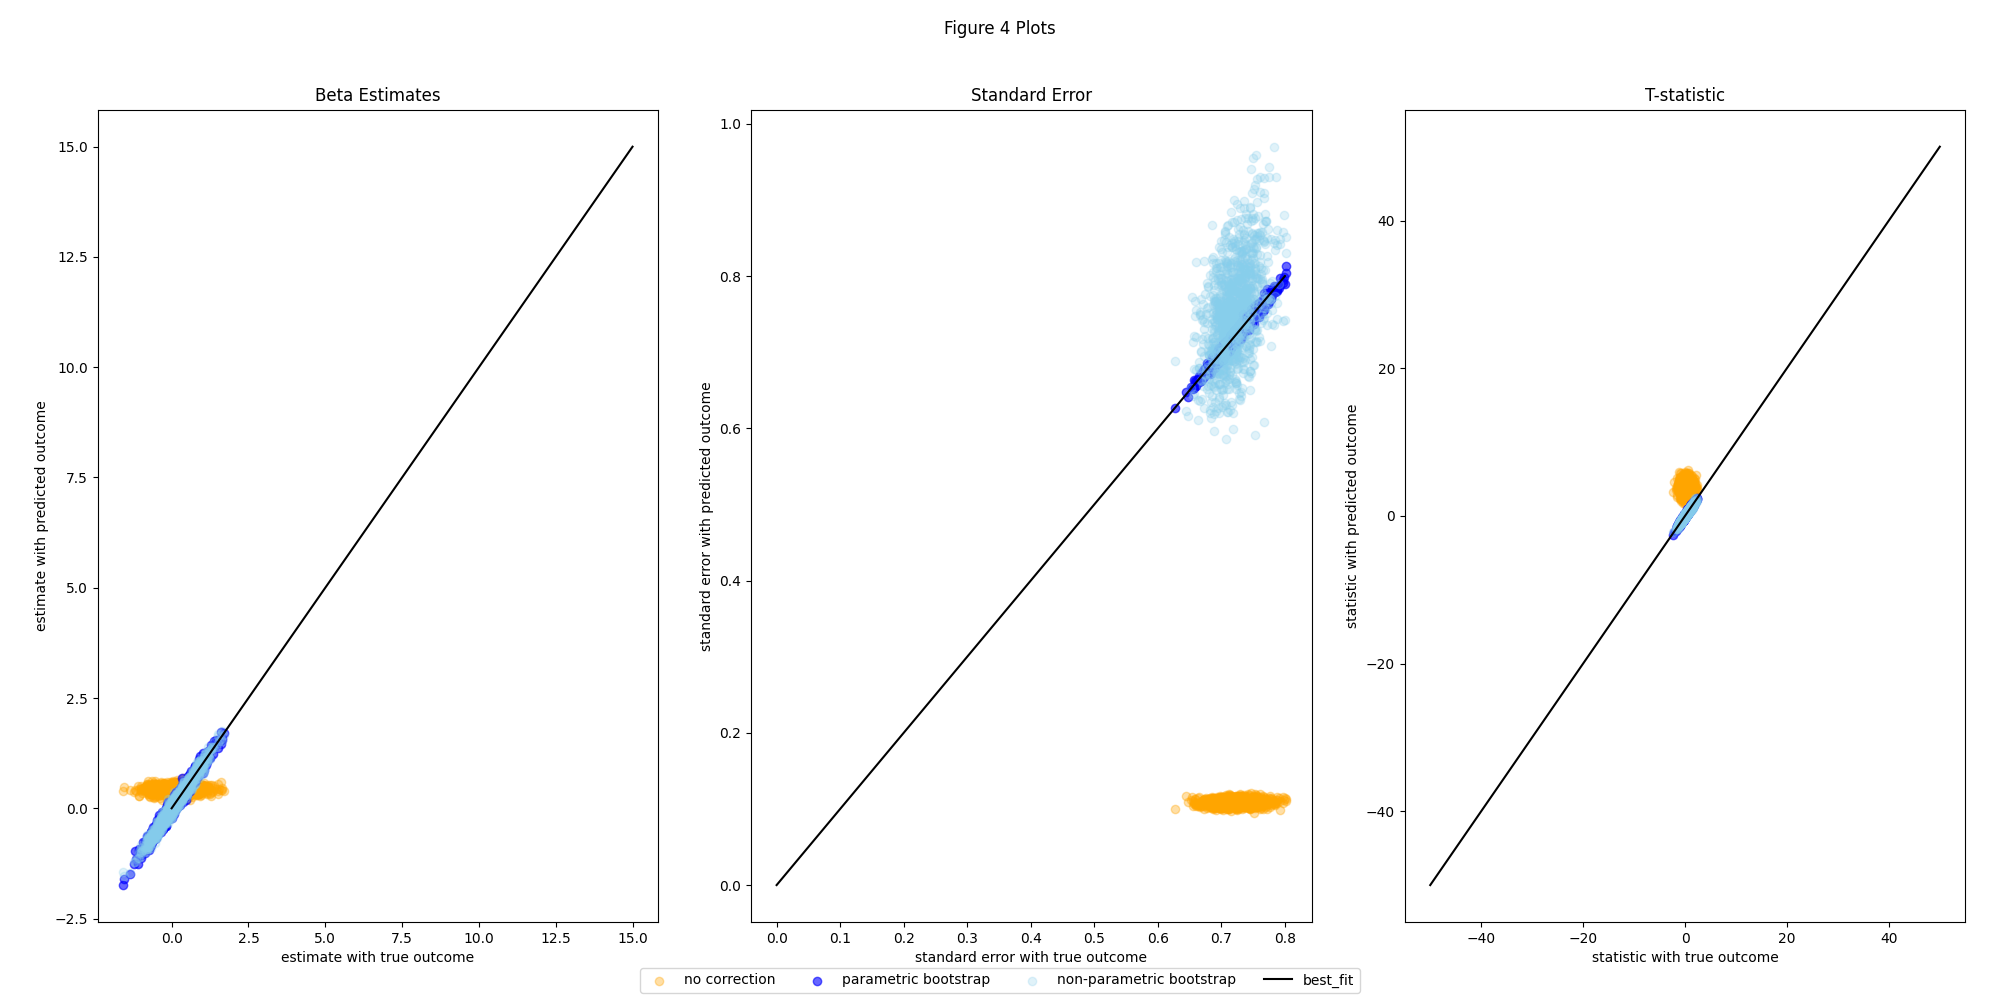
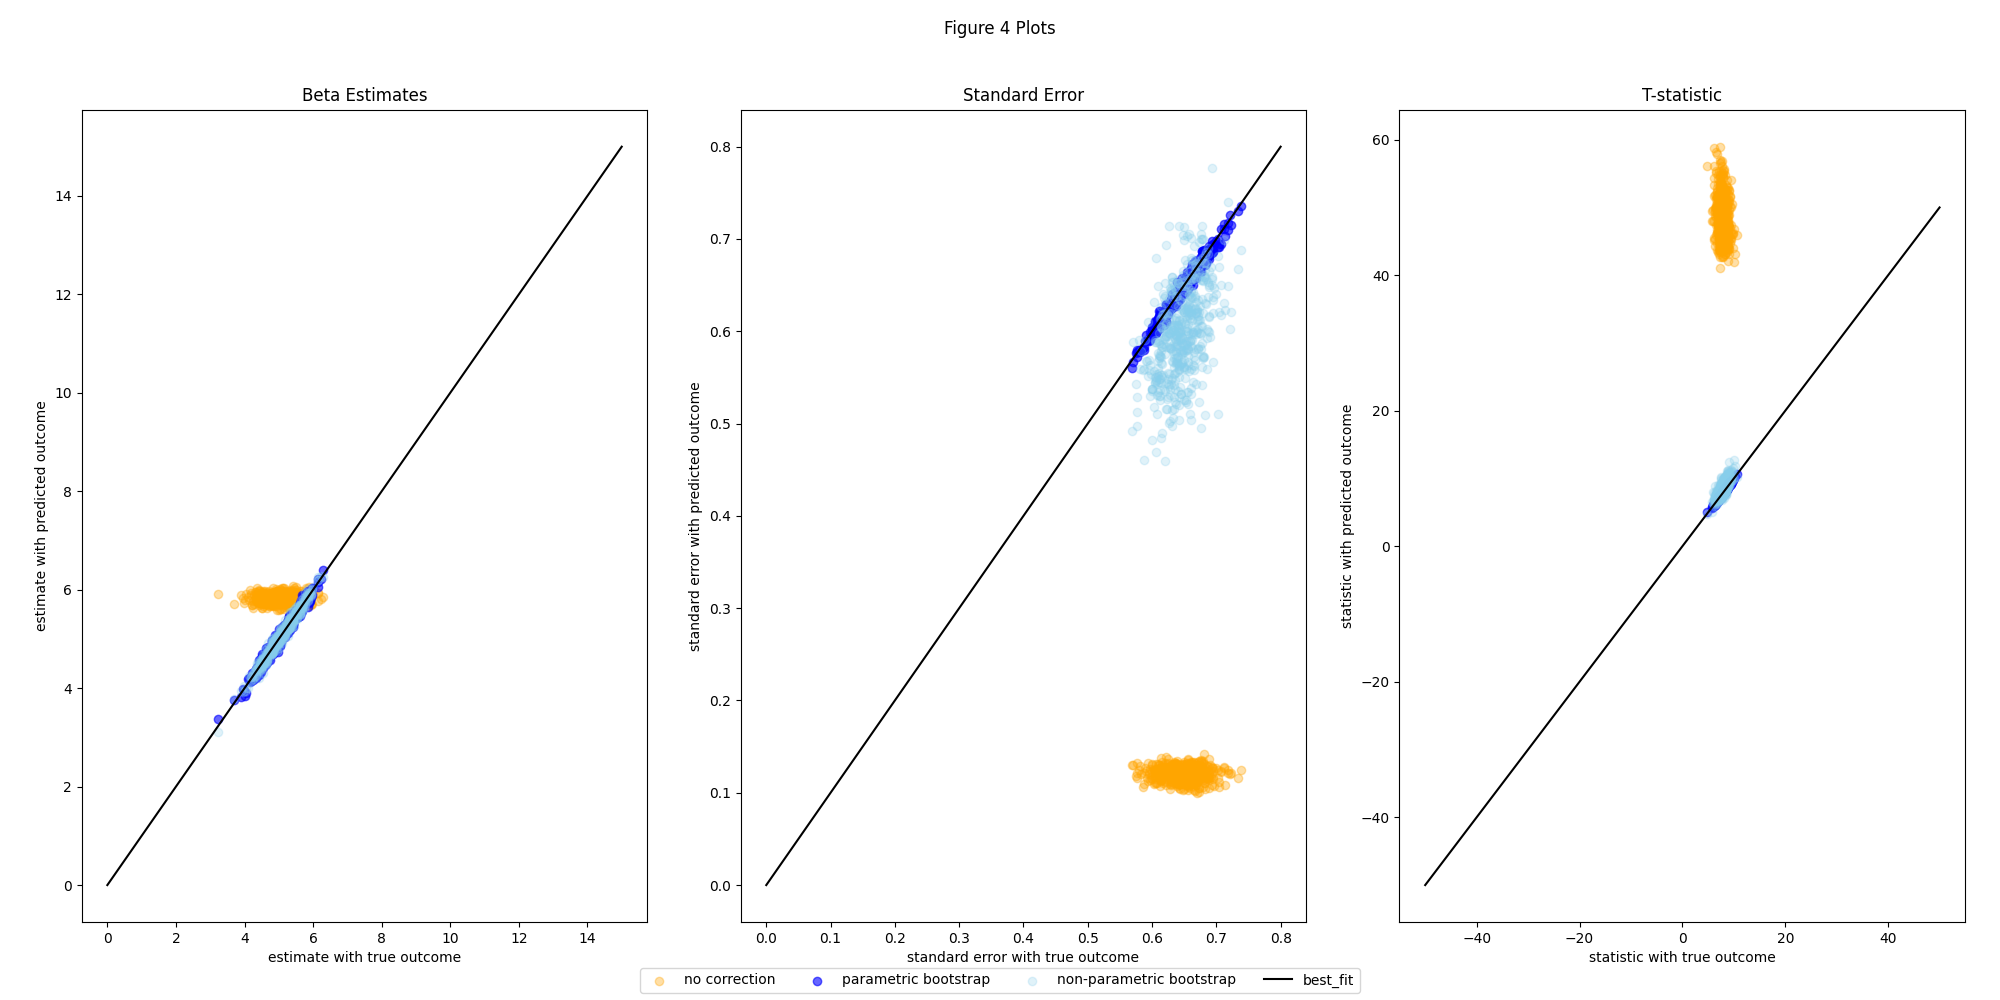
added p-value plots
need to understand how to interpret

diff --git a/src/postpi.py b/src/postpi.py
@@ -3,8 +3,9 @@ import matplotlib.pyplot as plt
 import statsmodels.api as sm
 import random
 import pandas as pd
-from sklearn.linear_model import LinearRegression
 
+from sklearn.linear_model import LinearRegression
+import scipy.stats
 
 def figure2_plot(qb_rating, y_test, y_pred):
     fig, axes = plt.subplots(1, 2)
@@ -42,7 +43,7 @@ def figure3_plot(y_pred, y_pred_baseline, y_test, y_test_baseline):
     axes[1].set(xlabel="y-observed baseline", ylabel="baseline y-predicted")
     axes[1].set_title("Linear Regression")
 
-    plt.savefig("src/plots/postpi_Fig3.png")
+    plt.savefig("./src/plots/postpi_Fig3.png")
     plt.clf()
 
 
@@ -88,6 +89,7 @@ def bootstrap_(x_val, y_val_pred, y_val_actual, relationship_model, param=True, 
 
     beta_estimators = []
     se_beta_estimators = []
+    pval_beta_estimators = []
     
     for b in range(B):
         # sample from the validation set with replacement
@@ -104,6 +106,7 @@ def bootstrap_(x_val, y_val_pred, y_val_actual, relationship_model, param=True, 
 
         beta_estimators.append(inf_model.params[1])
         se_beta_estimators.append(inf_model.bse[1])
+        pval_beta_estimators.append(inf_model.pvalues[1])
         
     beta_hat_boot = np.median(beta_estimators)
     se_hat_boot = None
@@ -112,7 +115,7 @@ def bootstrap_(x_val, y_val_pred, y_val_actual, relationship_model, param=True, 
     else:
         se_hat_boot = np.std(beta_estimators)
     
-    return beta_hat_boot, se_hat_boot
+    return beta_hat_boot, se_hat_boot, np.mean(pval_beta_estimators)
 
 
 def split_data(X_test, y_test):
@@ -127,17 +130,16 @@ def split_data(X_test, y_test):
 
 
 def postprediction_inference(X_test, y_test, prediction_model, y_test_baseline, y_pred_baseline):
-    all_true_outcomes, all_true_se, all_true_t_stats = [], [], []
-    all_parametric_estimates, all_parametric_se, all_parametric_t_stats = [], [], []
-    all_nonparametric_estimates, all_nonparametric_se, all_nonparametric_t_stats = [], [], []
-    all_nocorrection_estimates, all_nocorrection_se, all_nocorrection_t_stats = [], [], []
+    all_true_outcomes, all_true_se, all_true_t_stats, all_true_p_values = [], [], [], []
+    all_parametric_estimates, all_parametric_se, all_parametric_t_stats, all_parametric_p_values = [], [], [], []
+    all_nonparametric_estimates, all_nonparametric_se, all_nonparametric_t_stats, all_nonparametric_p_values = [], [], [], []
+    all_nocorrection_estimates, all_nocorrection_se, all_nocorrection_t_stats, all_nocorrection_p_values = [], [], [], []
 
-    var = {"QBRating": 1, "TOP": -2}
-    var = var["TOP"]
+    var = {"QBRating": 1, "TOP": -2, "RushTD": -3}
+    var = var["RushTD"]
 
-    for i in range(1000):
-        if i%100 == 0:
-            print("Working on Iteration: ", i)
+    for i in range(500):
+        print(f"Working on Iteration {i}", end="\r")
 
         test_set, valid_set = split_data(X_test, y_test)
         y_pred_nn = prediction_model.predict(test_set.iloc[:,:-1].values)
@@ -157,28 +159,50 @@ def postprediction_inference(X_test, y_test, prediction_model, y_test_baseline, 
         all_true_outcomes.append(true_inf_model.params[1])
         all_true_se.append(true_inf_model.bse[1])
         all_true_t_stats.append(true_inf_model.tvalues[1])
+        all_true_p_values.append(true_inf_model.pvalues[1])
                 
                 # ------------------- no correction method - OLS
         nocorr_inf_model = sm.OLS(y_valid_pred, sm.add_constant(valid_set.iloc[:,:-1].values)).fit()
 
-        all_nocorrection_estimates.append(nocorr_inf_model.params[1])
-        all_nocorrection_se.append(nocorr_inf_model.bse[1])
-        all_nocorrection_t_stats.append(nocorr_inf_model.tvalues[1])
+        all_nocorrection_estimates.append(nocorr_inf_model.params[var])
+        all_nocorrection_se.append(nocorr_inf_model.bse[var])
+        all_nocorrection_t_stats.append(nocorr_inf_model.tvalues[var])
+        all_nocorrection_p_values.append(nocorr_inf_model.pvalues[var])
                 
                 # ------------------- parametric method
-        parametric_bs_estimate, parametric_bs_se = bootstrap_(valid_set.iloc[:,var], y_valid_pred, valid_set.iloc[:,-1].values, relationship_model)
+        parametric_bs_estimate, parametric_bs_se, parametric_bs_pval = bootstrap_(valid_set.iloc[:,var], y_valid_pred, valid_set.iloc[:,-1].values, relationship_model)
         parametric_t_stat = parametric_bs_estimate / parametric_bs_se
                 
         all_parametric_estimates.append(parametric_bs_estimate)
         all_parametric_se.append(parametric_bs_se)
         all_parametric_t_stats.append(parametric_t_stat)
+        all_parametric_p_values.append(parametric_bs_pval)
                 
                 # ------------------- non-parametric method
-        nonparametric_bs_estimate, nonparametric_bs_se = bootstrap_(valid_set.iloc[:,var], y_valid_pred, valid_set.iloc[:,-1].values, relationship_model, False)
+        nonparametric_bs_estimate, nonparametric_bs_se, nonparametric_bs_pval = bootstrap_(valid_set.iloc[:,var], y_valid_pred, valid_set.iloc[:,-1].values, relationship_model, False)
         nonparametric_t_stat = nonparametric_bs_estimate / nonparametric_bs_se
                 
         all_nonparametric_estimates.append(nonparametric_bs_estimate)
         all_nonparametric_se.append(nonparametric_bs_se)
         all_nonparametric_t_stats.append(nonparametric_t_stat)
+        all_nonparametric_p_values.append(nonparametric_bs_pval)
 
     figure4_plot(all_true_outcomes, all_true_se, all_true_t_stats, all_nocorrection_estimates, all_parametric_estimates, all_nonparametric_estimates, all_nocorrection_se, all_parametric_se, all_nonparametric_se, all_nocorrection_t_stats, all_parametric_t_stats, all_nonparametric_t_stats)
+    pval_plot(all_true_p_values, all_nocorrection_p_values, all_nonparametric_p_values, all_parametric_p_values)
+
+
+
+def pval_plot(all_true_p_values, all_nocorrection_p_values, all_nonparametric_p_values, all_parametric_p_values):
+    fig, ax = plt.subplots(1, 1)
+    fig.suptitle("p-value plots")
+    fig.set_size_inches(20,10)
+
+    ax.scatter(all_true_p_values, all_nocorrection_p_values, color='orange', alpha=0.35)
+    ax.scatter(all_true_p_values, all_parametric_p_values, color='blue', alpha=0.6)
+    ax.scatter(all_true_p_values, all_nonparametric_p_values, color='skyblue', alpha=0.25)
+    # ax.plot([0,1], [0,1], color="black")
+    ax.set_title("p-values")
+    ax.set(xlabel="p-value with true outcome", ylabel="p-value with predicted outcome")
+
+    plt.savefig("./src/plots/p-value_plot.png")
+    plt.clf()

diff --git a/src/baseline_model.py b/src/baseline_model.py
@@ -106,13 +106,8 @@ def build_model(train, test):
     # print("MAE: ", mae(mod_fit.predict(X_test), list(y_test)))
 
     # qqplot to analyze if our model as a whole follows linear regression assumptions
-<<<<<<< HEAD
-    sm.qqplot(res).set_size_inches(4,4)
-    plt.savefig("./src/plots/qqplot.png")
-=======
     # sm.qqplot(res).set_size_inches(4,4)
-    # plt.show()
->>>>>>> master
+    # plt.savefig("./src/plots/qqplot.png")
     # shows that the model is approximately normal and significant
 
     # return model to allow for predictions
